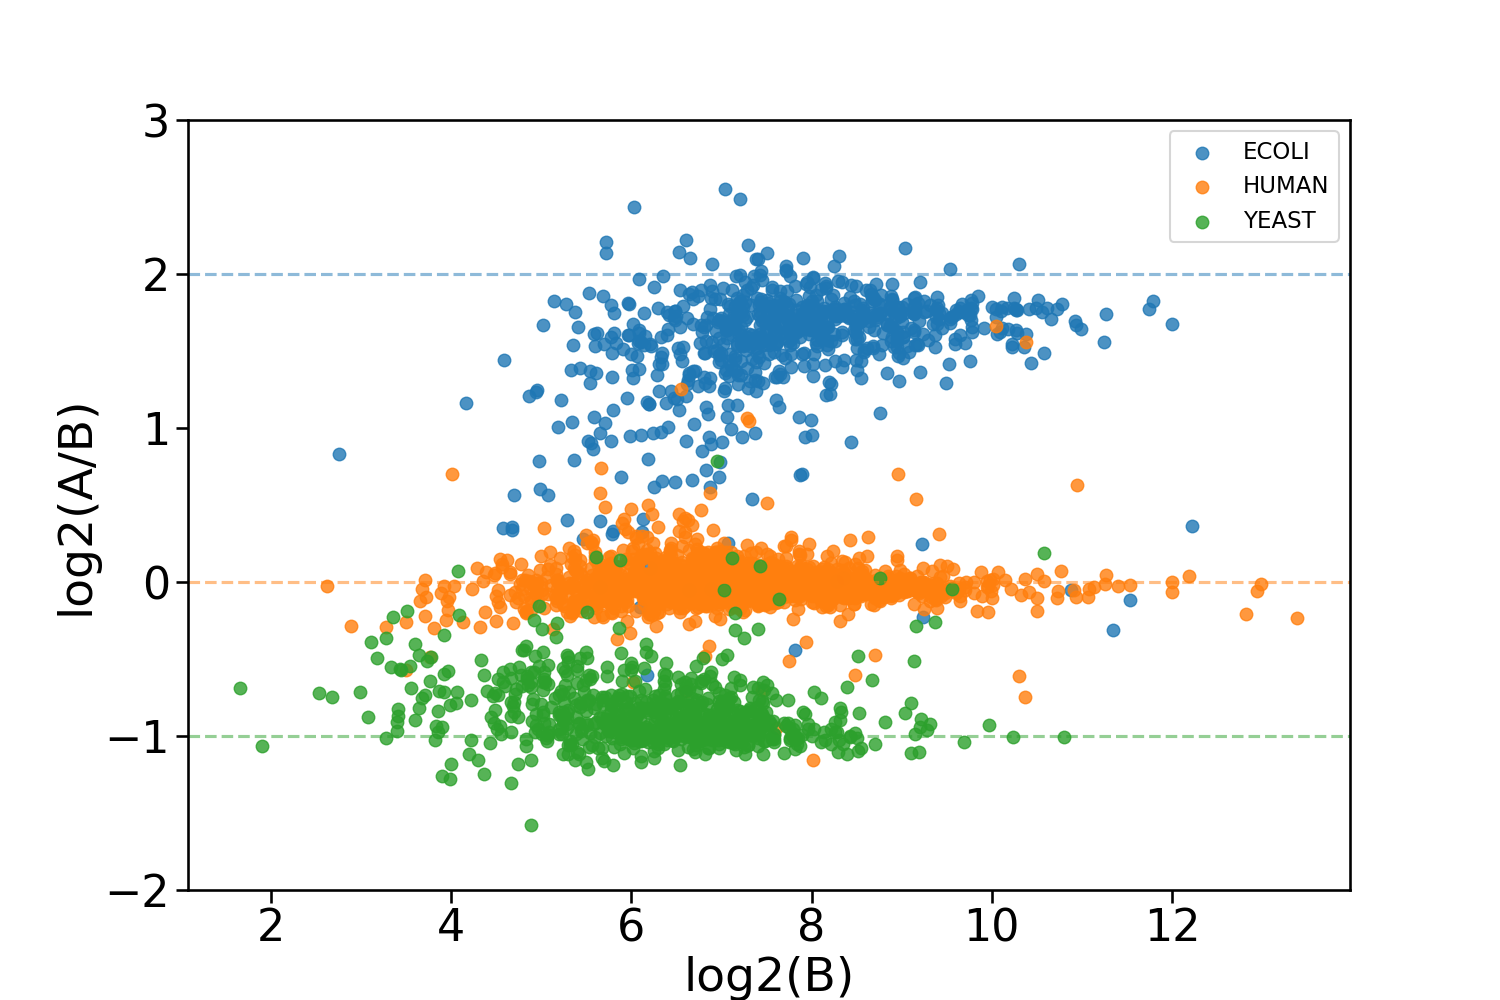
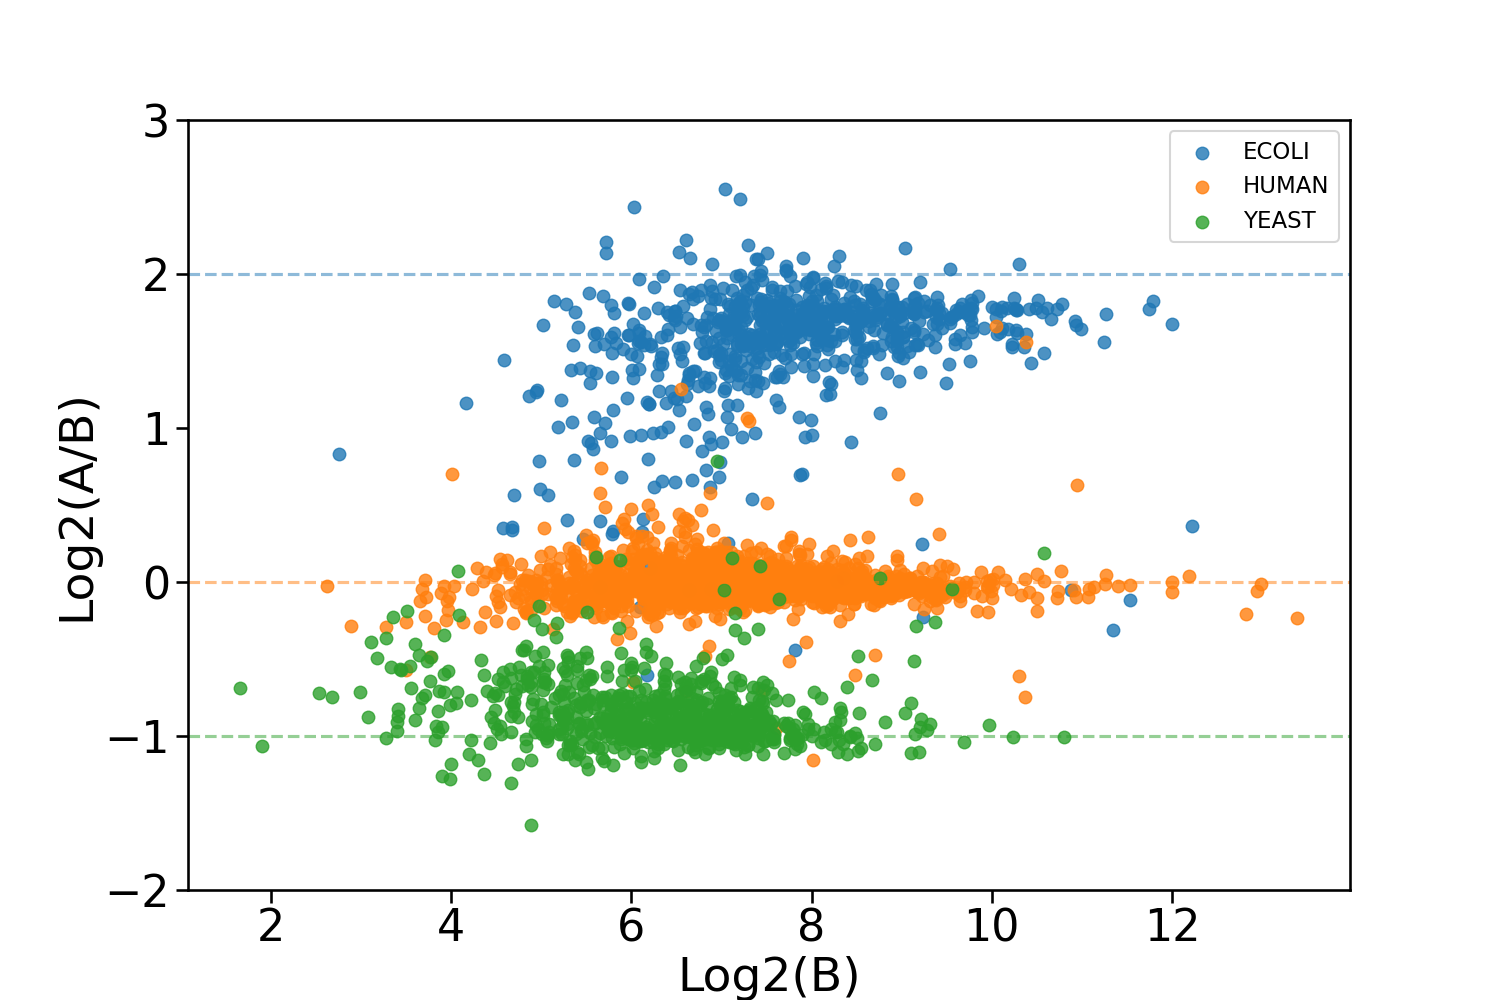
fixed scatter

Changed region(s): [[0.4293, 0.961, 0.5827, 1.0], [0.0307, 0.403, 0.0613, 0.62]]

diff --git a/doc/benchmark/supplement.tex b/doc/benchmark/supplement.tex
@@ -112,6 +112,7 @@ Yeast   & 6 050      & 5 848      & 5 847                       \\ \hline
     \caption{{\bf Comparison of actual missing values against fit to the censored normal distribution used in triqler.} We imputed the missing values as the mean of sample peptide intensities and used these imputed values to approximate the missingness for a given intensity. We binned the intensities to an arbitrary small range and plotted the fraction os missing values for each intensity range. The curve\_fit function from scipy.optimize was used to fit the values against the mentioned censored normal distribution for (A) ID pipeline  and (B) PS pipeline. \label{fig:fraction_missing_values}}
     \todo[inline]{Decrease decimal places for y-ticks in plot A.}
     \todo[inline]{increase fontsizes for x- and y-ticks for both plots.}
+    \todo[inline]{FIXED - Capitals in the beginning of y-labels}
 \end{figure}
 
 \begin{figure}[hbt]
@@ -123,7 +124,7 @@ Yeast   & 6 050      & 5 848      & 5 847                       \\ \hline
     \end{tabular}
     \caption{{\bf Proteins with a different Triqler-estimated abundance than expected are summarized by less peptides than ones that are well estimated.} We plotted the median number of peptides per protein for    
   We binned the peptides into regions of 0.1 ranged bins of estimated fold change and plotted them median for all bins between [-2,3], and plotted the median number of peptides as a function of bin-centers of the fold change. (A) is the ID pipeline and (B) is the PS pipeline \label{fig:number_of_peptides_supplement}}
-  \todo[inline]{Capitals in beginning of y-label}
+  \todo[inline]{FIXED - Capitals in beginning of y-label}
 \end{figure}
 
 \begin{figure}[hbt]
@@ -145,6 +146,7 @@ Yeast   & 6 050      & 5 848      & 5 847                       \\ \hline
     \caption{{\bf Summarized protein abundances by the compared methods.} from (A-D) ID and (E-H) PS pipelines as generated by 
     (A,E) Triqler, (B,F) MSqRob2, (C,G) MSstats, and (D,H) Top3.   As Triqler reports relative values for protein abundances the Triqler plot includes  Top3 reported protein abundances as a stand-in for the $log_2(B)$ values. \label{fig:fc_scatter_supplement}}
     \todo[inline]{Why are the triqler x-values different than the Top3? They should be the same.}
+    \todo[inline]{RESPONSE: Because it is actually not top3 intensities in the x-values, but the mean intensity of the psms belonging to a protein for each group i.e. .groupby("proteins").intensity.mean(). Is this ok? or should I rewrite the code to have top3 intensities?}
 \end{figure}
 
 \begin{figure}[hbt]

diff --git a/scripts/clean/plot_scatter.py b/scripts/clean/plot_scatter.py
@@ -36,8 +36,8 @@ def plot_scatterplot(df, output, fdr_threshold = 1.00):
     ax.axhline(-1, linestyle = "--", color="tab:green", alpha = 0.5)
     ax.set_ylim([-2,3])
     #ax.set_xlim([0,10])
-    ax.set_xlabel("log2(B)", fontsize=34)
-    ax.set_ylabel("log2(A/B)", fontsize=34)
+    ax.set_xlabel("Log2(B)", fontsize=34)
+    ax.set_ylabel("Log2(A/B)", fontsize=34)
     
     ax.tick_params(axis='x', which='major', labelsize=32)#labelrotation=90)
     ax.tick_params(axis='y', which='major', labelsize=32)
